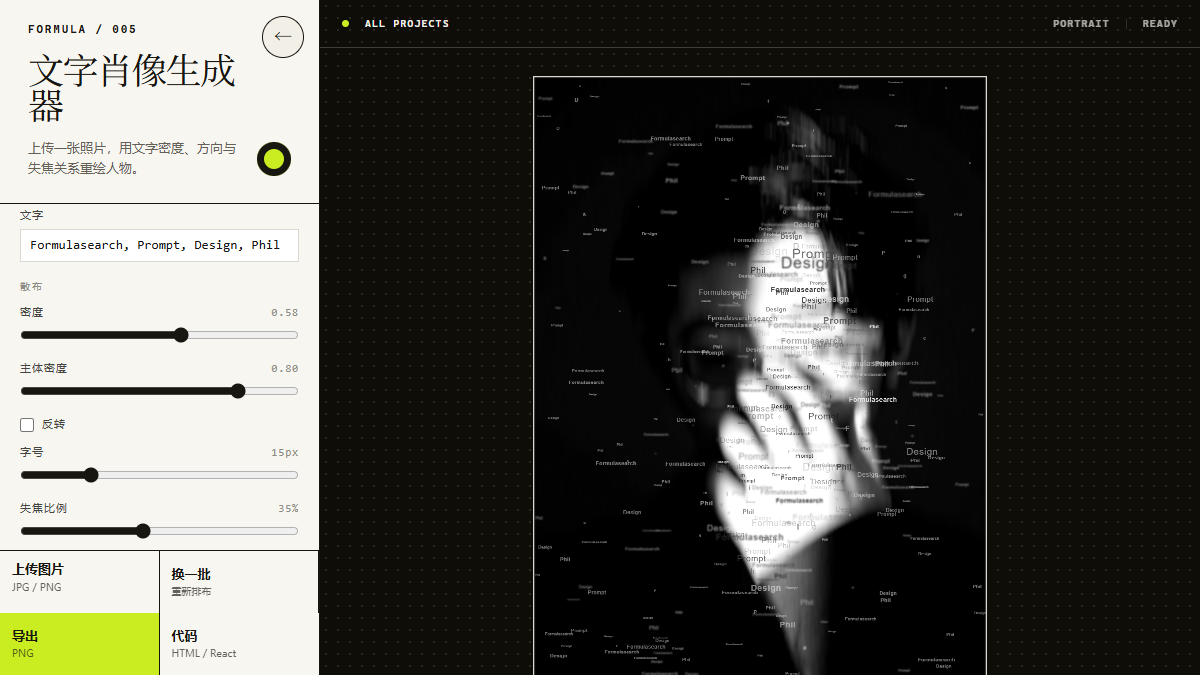
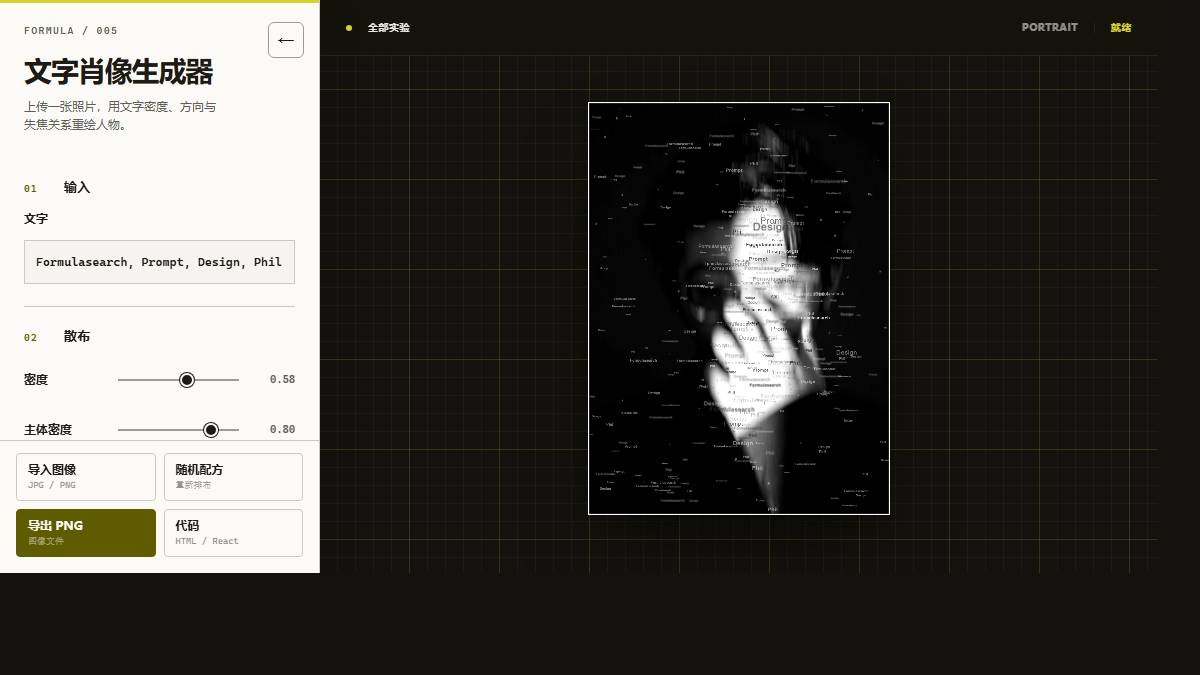
docs: reorganize README project gallery

diff --git a/README.md b/README.md
@@ -2,76 +2,91 @@
 
 # Formulasearch Aesthetic Formulas
 
-把日常的审美观察，做成可直接体验、下载和改造的浏览器视觉工具。
+把日常的审美观察，做成可以直接体验、下载与改造的浏览器视觉工具。
 
-[浏览全部项目](https://fanzr-arch.github.io/Phil-aesthetic-formulas/) · [关注 X / @Formulasearch](https://x.com/Formulasearch) · [UI Kit 文档](tools/formula-lab/README.md)
+[在线画廊](https://fanzr-arch.github.io/Phil-aesthetic-formulas/) · [Formula Lab UI Kit v3](tools/formula-lab/README.md) · [X / @Formulasearch](https://x.com/Formulasearch)
 
 </div>
 
-## 现在有什么
+## 已发布项目
 
-本仓库当前发布 4 个可独立运行的 HTML / CSS / JavaScript 视觉实验。无需后端；每个项目的 `template/` 都包含它运行所需的本地资源，可部署到 GitHub Pages、任意静态站点，或直接离线打开。
+当前包含 4 个零构建、无后端的视觉实验。每个项目都保留完整的本地运行文件，可部署到静态网站，也可以下载后离线打开。
 
-[![ASCII Signal · 图片转字符画](008-ascii-signal/preview.svg)](https://fanzr-arch.github.io/Phil-aesthetic-formulas/008-ascii-signal/template/)
+<table>
+  <tr>
+    <td width="50%" valign="top">
+      <a href="https://fanzr-arch.github.io/Phil-aesthetic-formulas/008-ascii-signal/template/">
+        <img src="008-ascii-signal/thumbnail.png" alt="ASCII Signal 图片转字符画工具界面">
+      </a>
+      <h3>008 · ASCII Signal</h3>
+      <p>把图片按亮度转换为可复制的字符画，可调整密度、对比度、细节、反相与字符集。</p>
+      <p><a href="https://fanzr-arch.github.io/Phil-aesthetic-formulas/008-ascii-signal/template/">在线体验</a> · <a href="008-ascii-signal/">源码与说明</a></p>
+    </td>
+    <td width="50%" valign="top">
+      <a href="https://fanzr-arch.github.io/Phil-aesthetic-formulas/007-iridescent-flow-halftone/template/">
+        <img src="007-iridescent-flow-halftone/thumbnail.png" alt="Liquid Screen Lab 虹彩液态工具界面">
+      </a>
+      <h3>007 · Liquid Screen Lab</h3>
+      <p>实时生成虹彩液态与 RGB 网点错版效果，支持比例、运动、形态、质感和导出参数。</p>
+      <p><a href="https://fanzr-arch.github.io/Phil-aesthetic-formulas/007-iridescent-flow-halftone/template/">在线体验</a> · <a href="007-iridescent-flow-halftone/">源码与说明</a></p>
+    </td>
+  </tr>
+  <tr>
+    <td width="50%" valign="top">
+      <a href="https://fanzr-arch.github.io/Phil-aesthetic-formulas/006-grid-collage-poster/template/">
+        <img src="006-grid-collage-poster/thumbnail.png" alt="网格拼贴海报生成器工具界面">
+      </a>
+      <h3>006 · 网格拼贴海报生成器</h3>
+      <p>把文字与多张图片编入模块网格，生成可复现、可调整、可导出的海报版式。</p>
+      <p><a href="https://fanzr-arch.github.io/Phil-aesthetic-formulas/006-grid-collage-poster/template/">在线体验</a> · <a href="006-grid-collage-poster/">源码与说明</a></p>
+    </td>
+    <td width="50%" valign="top">
+      <a href="https://fanzr-arch.github.io/Phil-aesthetic-formulas/005-typographic-portrait/template/">
+        <img src="005-typographic-portrait/thumbnail.png" alt="文字肖像生成器工具界面">
+      </a>
+      <h3>005 · 文字肖像生成器</h3>
+      <p>使用文字密度、动态模糊、方向和失焦关系重绘照片，生成故障艺术文字肖像。</p>
+      <p><a href="https://fanzr-arch.github.io/Phil-aesthetic-formulas/005-typographic-portrait/template/">在线体验</a> · <a href="005-typographic-portrait/">源码与说明</a></p>
+    </td>
+  </tr>
+</table>
 
-| 编号 | 实验 | 能做什么 | 在线体验 |
-| --- | --- | --- | --- |
-| 008 | [ASCII Signal · 图片转字符画](008-ascii-signal/) | 将图片按亮度转换为可复制的字符画，支持密度、对比度、反相与字符集。 | [打开工具](https://fanzr-arch.github.io/Phil-aesthetic-formulas/008-ascii-signal/template/) |
-| 007 | [虹彩液态 · RGB 网点](007-iridescent-flow-halftone/) | 可交互的 WebGL 液态色彩与 RGB 半调视觉，支持实时参数调整。 | [打开工具](https://fanzr-arch.github.io/Phil-aesthetic-formulas/007-iridescent-flow-halftone/template/) |
-| 006 | [模块网格拼贴海报](006-grid-collage-poster/) | 把文字与图片编入模块网格，生成可复现、可导出的海报版式。 | [打开工具](https://fanzr-arch.github.io/Phil-aesthetic-formulas/006-grid-collage-poster/template/) |
-| 005 | [故障艺术 · 文字肖像](005-typographic-portrait/) | 用文字密度、动态模糊和失焦关系重绘照片。 | [打开工具](https://fanzr-arch.github.io/Phil-aesthetic-formulas/005-typographic-portrait/template/) |
+桌面端画廊支持数字键 `1`–`4` 快速打开项目；每个工具顶部的“全部实验”都可以返回画廊。
 
-桌面端画廊支持 `1` 至 `4` 快捷键打开对应项目；每个工具顶部的 **ALL PROJECTS** 都可返回画廊。
+## 如何使用
 
-## 固定的 Formula Lab UI Kit
+1. 点击项目卡片中的“在线体验”直接使用。
+2. 需要离线运行时，下载对应项目目录并打开 `template/index.html`。
+3. 所有资源均保存在项目内部，不依赖 CDN、后端服务或构建步骤。
 
-工具的作品视觉可以变化，但操作界面不再每个项目重新设计。公共源位于 [`tools/formula-lab/`](tools/formula-lab/)，每个已发布项目保存一份本地快照，因此既统一又不会让旧项目被后续更新意外改坏。
+## Formula Lab UI Kit v3
 
-固定组件包括：
+四个作品的视觉方向可以不同，但参数面板、控件、画板与交互语言使用同一套组件系统：
 
-- 控制面板、分组标题和字段标签
-- 输入框、分段选择器、复选项和按钮操作区
-- 画布舞台、状态提示、抽屉开关和可访问对话框
-- 桌面与移动端布局、键盘焦点、`Escape` 关闭和低动态偏好
+- 统一标题层级、字段排版、按钮操作区和响应式面板
+- 数值保持单行，选中、悬浮与键盘焦点使用不同状态
+- 画板根据可用空间完整缩放，阴影不会被裁切
+- 桌面与移动端共享收起逻辑、触控尺寸和减弱动态规则
 
-动效也遵循同一规则：点击反馈为 160–180ms，抽屉为 240ms 的 `transform` 过渡；系统启用“减少动态效果”时，非必要动画会关闭，007 的实时渲染默认暂停。详见 [UI Kit 说明](tools/formula-lab/README.md) 与 [Shell 使用规范](UI_SHELL.md)。
+公共源码位于 [`tools/formula-lab/`](tools/formula-lab/)，新实验从 [`_template/`](./_template/) 开始。完整约束与验收规则见 [`UI_SHELL.md`](UI_SHELL.md)。
 
-## 仓库结构
+## 新建或维护实验
 
-```text
-tools/formula-lab/                  # UI Kit 的唯一公共源、画廊和校验脚本
-_template/                          # 新实验的起点，包含当前 UI Kit 本地快照
-005-typographic-portrait/template/  # 已发布项目及其独立运行快照
-006-grid-collage-poster/template/
-007-iridescent-flow-halftone/template/
-008-ascii-signal/template/
+```powershell
+# 创建新项目
+.\tools\new-issue.ps1 -Number 9 -Slug example -Title "示例工具"
+
+# 发布前校验组件、快照和动效规则
+.\tools\check-lab-ui.ps1 -Strict
 ```
 
-## 使用与维护
+已发布项目各自保存 UI Kit 本地快照。更新公共界面时先修改 `tools/formula-lab/`，再显式同步到指定项目，避免旧作品被意外改变。
 
-### 使用现成工具
+## 开源说明
 
-1. 在上表中打开在线工具，或下载对应项目文件夹。
-2. 双击 `template/index.html` 即可本地使用。
-3. 在项目自己的 JavaScript、文案和画布逻辑中做改造；通用界面资源已经随 `template/` 一起提供。
+项目许可、上游来源和第三方归属记录在各项目目录中。公共 UI Kit 的依赖声明见 [`tools/formula-lab/THIRD_PARTY_NOTICES.md`](tools/formula-lab/THIRD_PARTY_NOTICES.md)，007 的 WebGL 相关说明见其 [`THIRD_PARTY_NOTICES.md`](007-iridescent-flow-halftone/THIRD_PARTY_NOTICES.md)。
 
-### 新建或维护实验
-
-1. 从 [`_template/`](./_template/) 创建项目，保留其中的 `template/` UI 快照。
-2. 需要更新统一界面时，先修改 [`tools/formula-lab/`](tools/formula-lab/)，再明确执行同步，而不是在各项目里各写一套。
-3. 发布前运行：
-
-   ```powershell
-   .\tools\check-lab-ui.ps1 -Strict
-   ```
-
-   该检查会校验快照一致性、公共组件标记和动效限制。
-
-## 开源与第三方说明
-
-项目代码和各项目的许可说明在对应目录中。公共 UI Kit 的第三方依赖与归属见 [THIRD_PARTY_NOTICES.md](tools/formula-lab/THIRD_PARTY_NOTICES.md)；007 的 WebGL 相关说明见其 [项目目录](007-iridescent-flow-halftone/)。
-
-公开仓库只保留可直接预览、下载或复用的最终成果；制作过程、内部研究材料和草稿不纳入发布内容。
+公开仓库只保留可以直接体验、下载或复用的最终成果，不包含制作过程、内部研究资料和草稿。
 
 ---
 
